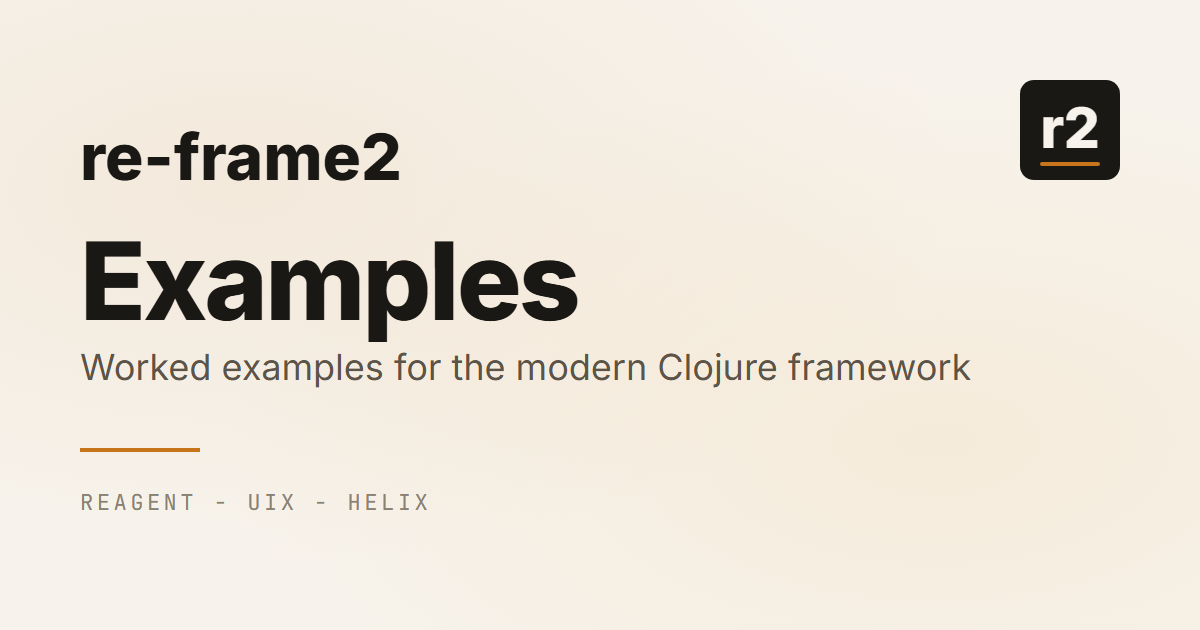
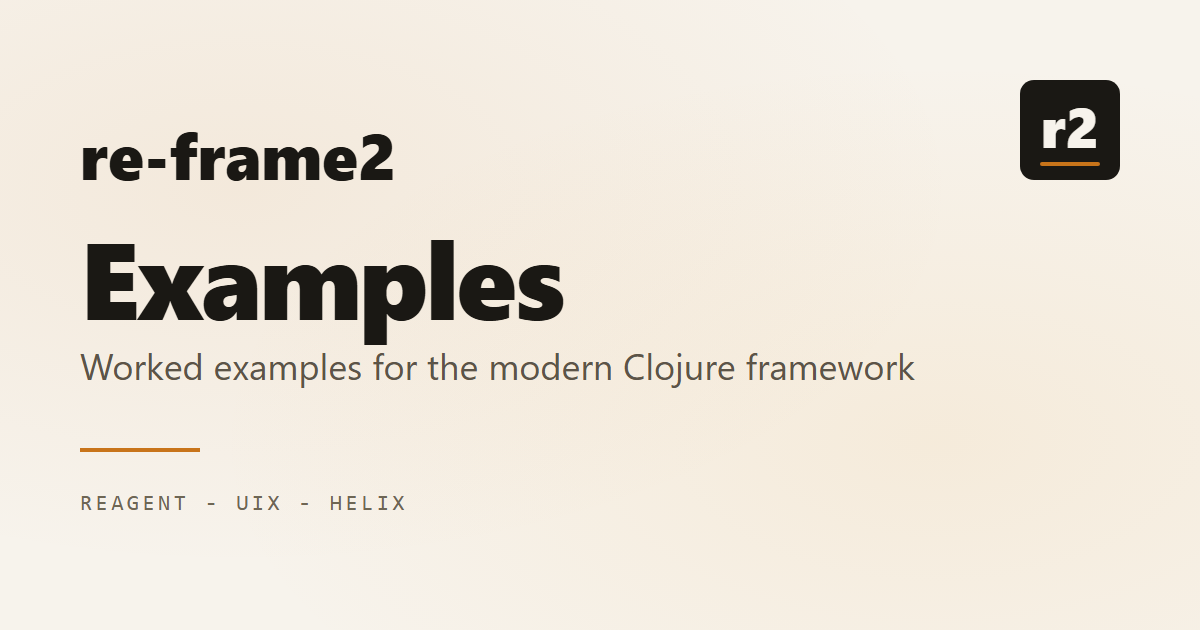
fix(examples/_shared): responsive shell + social card polish (rf2-y82dk9)
Responsive Xray-host shell: .rf2-testbed-shell was a fixed two-column flex
(host flex-shrink:0 at ~560px + 320px min-width, ~624px before any app
content) that overflowed narrow viewports. Add an @media (max-width: 900px)
fallback that stacks the shell to a column — app on top, Xray host full-bleed
below with a capped 60vh height + internal scroll. The host/app DOM contract
(.rf2-testbed-shell > #app + [data-rf-xray-host]) is unchanged, so Xray
auto-mounting and the counter/flows examples keep working at every width.

OG source-art palette: og.svg mono strapline used the retired sub-AA #8A8270
(3.45:1 on paper). Darken to the AA-safe --ex-ink-faint #6E6654 (5.14:1) to
mirror the CSS token (rf2-febmqu), and re-export og.png (1200x630) from it.

Asset gate (check-examples-assets.cjs): two new contracts with teeth —
- responsive shell: a structure.css with no @media rule that stacks
  .rf2-testbed-shell to a column turns the gate RED.
- OG source-art palette: a retired/sub-AA literal (#8A8270) used as a paint
  value in og.svg turns the gate RED; a doc-comment mention does not.
Keeps the existing AA-contrast / focus-indicator / og.png-raster contracts
green. New negative+positive teeth in check-examples-assets.test.cjs.

Document the responsive shell behaviour + the source-art palette-mirroring
contract in examples/_shared/README.md.

diff --git a/examples/_shared/css/structure.css b/examples/_shared/css/structure.css
@@ -203,14 +203,32 @@ hr {
 }
 
 /* -- Xray-host shell (counter testbed pattern) -------------------------- */
+/*
+ * Responsive contract (rf2-y82dk9). The desktop layout is a two-column flex:
+ * the app on the left, the inline Xray host fixed at --rf-xray-inline-width
+ * (default 560px) on the right. With `flex-shrink:0` + a 320px host min-width
+ * that desktop shell needs ~624px before any app content shows, so on a phone
+ * it would overflow horizontally even though the pages declare a responsive
+ * viewport. Below the --rf-testbed-shell-stack breakpoint (900px) we STACK:
+ * the columns become rows (app on top, Xray host below), the host drops its
+ * fixed width / min-width and goes full-bleed, and its height is capped so the
+ * panel never crowds the app off-screen. The host/app DOM contract
+ * (`.rf2-testbed-shell > #app` + `[data-rf-xray-host]`) is untouched, so Xray
+ * auto-mounting and the counter/flows examples keep working at every width.
+ * See examples/_shared/README.md §Responsive Xray-host shell.
+ */
+
+:root {
+  --rf-xray-accent: #7C5CFF;
+  /* The viewport width at/under which the inline-Xray shell stacks instead of
+     sitting side-by-side. ~624px is the narrowest the side-by-side layout can
+     be without overflow; 900px keeps a comfortable app column before stacking. */
+  --rf-testbed-shell-stack: 900px;
+}
 
 .rf2-testbed-shell {
   display: flex;
   min-height: 100vh;
-}
-
-:root {
-  --rf-xray-accent: #7C5CFF;
 }
 
 [data-rf-xray-host] {
@@ -223,6 +241,23 @@ hr {
   flex: 1;
   min-width: 0;
   padding: 2em;
+}
+
+/* Narrow viewports: stack the inline-Xray host below the app rather than
+   overflowing the side-by-side desktop shell (rf2-y82dk9). */
+@media (max-width: 900px) {
+  .rf2-testbed-shell {
+    flex-direction: column;
+  }
+  .rf2-testbed-shell [data-rf-xray-host] {
+    /* Drop the fixed inline width + min-width: full-bleed under the app, with a
+       capped height so the panel scrolls internally instead of dominating. */
+    flex: 1 1 auto;
+    min-width: 0;
+    width: 100%;
+    max-height: 60vh;
+    overflow: auto;
+  }
 }
 
 /* -- Universal disabled state -------------------------------------------- */

diff --git a/examples/_shared/README.md b/examples/_shared/README.md
@@ -64,8 +64,44 @@ screenshots stay reproducible. (rf2-byf7y)
   link-preview scrapers (Facebook / X / LinkedIn / Slack / Discord) do **not**
   render an SVG `og:image`, so the social card must be a raster (PNG/JPG).
 - `img/og.svg` — editable SOURCE ART for the card above; not referenced by any
-  page. Re-export `og.png` from it when the design changes (see that file's
-  header for the 1200×630 render recipe).
+  page. Re-export `og.png` from it when the design changes (render the SVG at
+  exactly 1200×630 — e.g. open it in a headless browser sized 1200×630 and
+  screenshot, or any SVG→PNG rasteriser at that size). Its colour literals
+  intentionally mirror the `--ex-*` tokens in `style.css`; the asset gate
+  rejects re-introducing a retired/sub-AA palette value here (e.g. the old
+  `#8A8270` muted ink, darkened to `#6E6654` for AA — rf2-y82dk9), so the
+  social card keeps the shared palette's accessibility decisions.
+
+## Responsive Xray-host shell
+
+The inline-Xray examples (`counter`, `flows`) wrap their app + Xray panel in a
+`.rf2-testbed-shell`:
+
+```html
+<div class="rf2-testbed-shell">
+  <main id="app"></main>
+  <aside data-rf-xray-host></aside>
+</div>
+```
+
+On the desktop this is a two-column flex — the app on the left, the inline Xray
+host on the right at `--rf-xray-inline-width` (default 560px). Because the host
+is `flex-shrink: 0` with a 320px `min-width`, the side-by-side layout needs
+~624px before any app content shows, so on a phone it would overflow
+horizontally even though the pages declare a responsive viewport.
+
+`structure.css` therefore **stacks** the shell below the
+`--rf-testbed-shell-stack` breakpoint (900px): the columns become rows (app on
+top, Xray host below), the host drops its fixed width / min-width and goes
+full-bleed, and its height is capped (`max-height: 60vh` + internal scroll) so
+the panel never crowds the app off-screen. The host/app DOM contract
+(`.rf2-testbed-shell > #app` + `[data-rf-xray-host]`) is **unchanged**, so Xray
+auto-mounting and both examples keep working at every width.
+
+The asset gate (`check-examples-assets.cjs`) enforces this: a `structure.css`
+with no `@media (max-width: …)` rule that stacks `.rf2-testbed-shell` to a
+column turns the gate RED, so the shell cannot silently regress to an unbounded
+horizontal layout (rf2-y82dk9).
 
 ## Adding a new example
 
